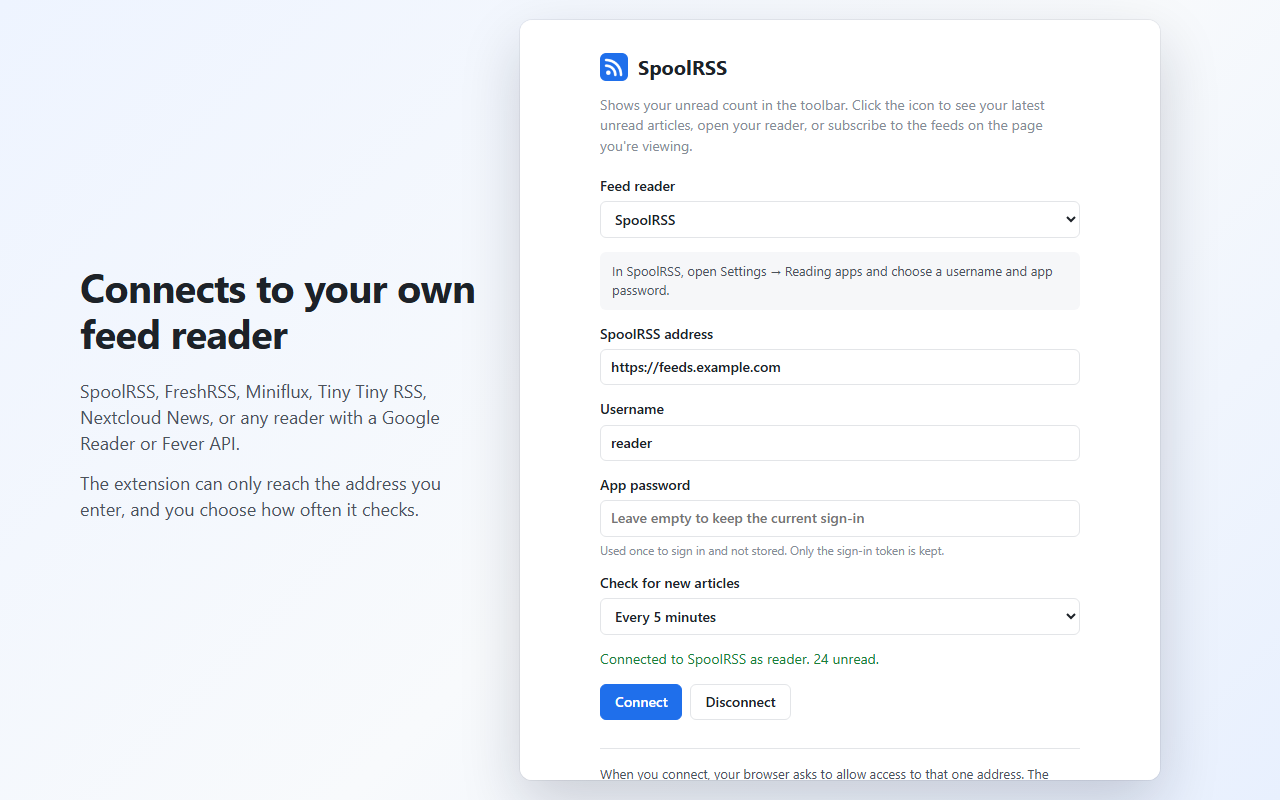
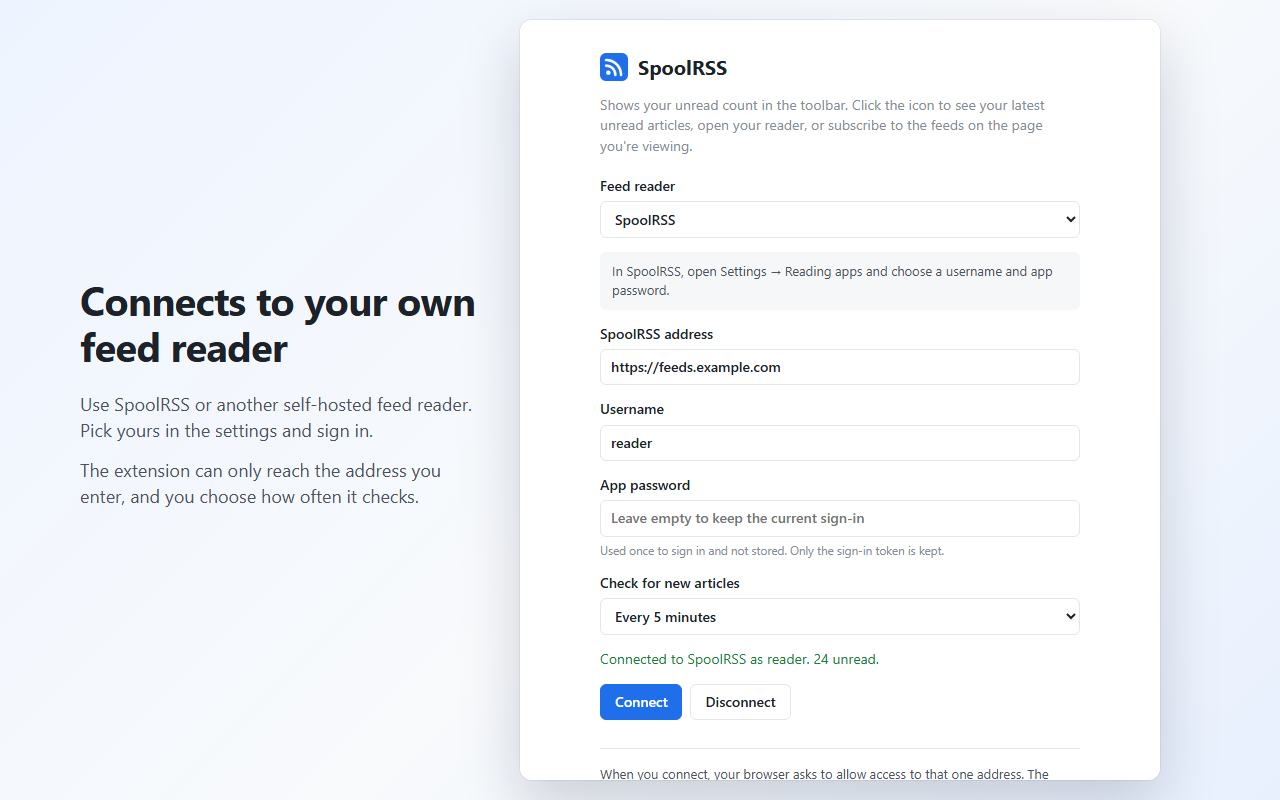
Release 2.0.1: store listing without other readers' names
The Chrome Web Store rejected 2.0.0 for keyword spam because the
description and screenshots listed the supported readers by name.

Changed region(s): [[0.0625, 0.3438, 0.375, 0.6562]]

diff --git a/store/render/screenshot-setup.html b/store/render/screenshot-setup.html
@@ -19,7 +19,7 @@
 <body>
   <div class="copy">
     <h1>Connects to your own feed reader</h1>
-    <p>SpoolRSS, FreshRSS, Miniflux, Tiny Tiny RSS, Nextcloud News, or any reader with a Google Reader or Fever API.</p>
+    <p>Use SpoolRSS or another self-hosted feed reader. Pick yours in the settings and sign in.</p>
     <p>The extension can only reach the address you enter, and you choose how often it checks.</p>
   </div>
   <iframe class="frame" src="/ext/options.html" title="SpoolRSS extension settings"></iframe>

diff --git a/store/render/screenshot-popup.html b/store/render/screenshot-popup.html
@@ -40,7 +40,7 @@
       <li>See how many articles are waiting in your feed reader</li>
       <li>Subscribe to the feeds on any page in one click</li>
       <li>Glance at the latest headlines from the toolbar</li>
-      <li>Works with SpoolRSS, FreshRSS, Miniflux, Tiny Tiny RSS and Nextcloud News</li>
+      <li>Works with SpoolRSS and other self-hosted feed readers</li>
     </ul>
   </div>
   <div class="browser">

diff --git a/store/SUBMITTING.md b/store/SUBMITTING.md
@@ -22,7 +22,7 @@ For the first submission, use **`spoolrss-firefox.zip`** for Firefox and **`spoo
 | --- | --- |
 | Name | `SpoolRSS` |
 | Add-on URL | `spoolrss` (if it's taken, `spoolrss-reader`) |
-| Summary | Your unread count from SpoolRSS, FreshRSS, Miniflux, Tiny Tiny RSS or Nextcloud News in the toolbar, and one-click subscribe to the feeds on any page. |
+| Summary | Your feed reader's unread count in the toolbar, and one-click subscribe to the feeds on any page. Works with SpoolRSS and other self-hosted readers. |
 | Description | The [description](#description) below |
 | Categories | **Feeds, News & Blogging** |
 | Support email / website | `https://github.com/tet0r/spoolrss/issues` |
@@ -122,10 +122,12 @@ Two cases need the store's dashboard instead:
 
 ## Text to paste
 
+The Chrome Web Store treats a list of other products' names in the listing (description, screenshots or the extension's own description) as keyword spam and rejects it. Keep those generic, as below; naming the supported readers is fine in the notes for reviewers.
+
 ### Description
 
 ```
-Connect your browser to your own feed reader: SpoolRSS, FreshRSS, Miniflux, Tiny Tiny RSS, Nextcloud News, or any reader with a Google Reader or Fever API.
+Connect your browser to your own feed reader: SpoolRSS or another self-hosted reader. Choose yours in the extension's settings.
 
 • Your unread count on the toolbar icon, checked every 1 to 60 minutes
 • Click the icon to see your newest unread headlines

diff --git a/CHANGELOG.md b/CHANGELOG.md
@@ -4,6 +4,12 @@ All notable changes to SpoolRSS (called Feedster before 2.0.0) are listed here, 
 
 ## [Unreleased]
 
+## [2.0.1] - 2026-11-08
+
+### Changed
+
+- The browser extension's store description and screenshots describe it as working with SpoolRSS and other self-hosted feed readers, instead of listing them by name, which the Chrome Web Store counts as keyword spam. The supported readers are unchanged and listed in its settings.
+
 ## [2.0.0] - 2026-11-08
 
 Feedster is now **SpoolRSS**. Existing installs carry on with their data, settings and sign-ins; see [Updating from Feedster](https://github.com/tet0r/spoolrss#updating-from-feedster).
